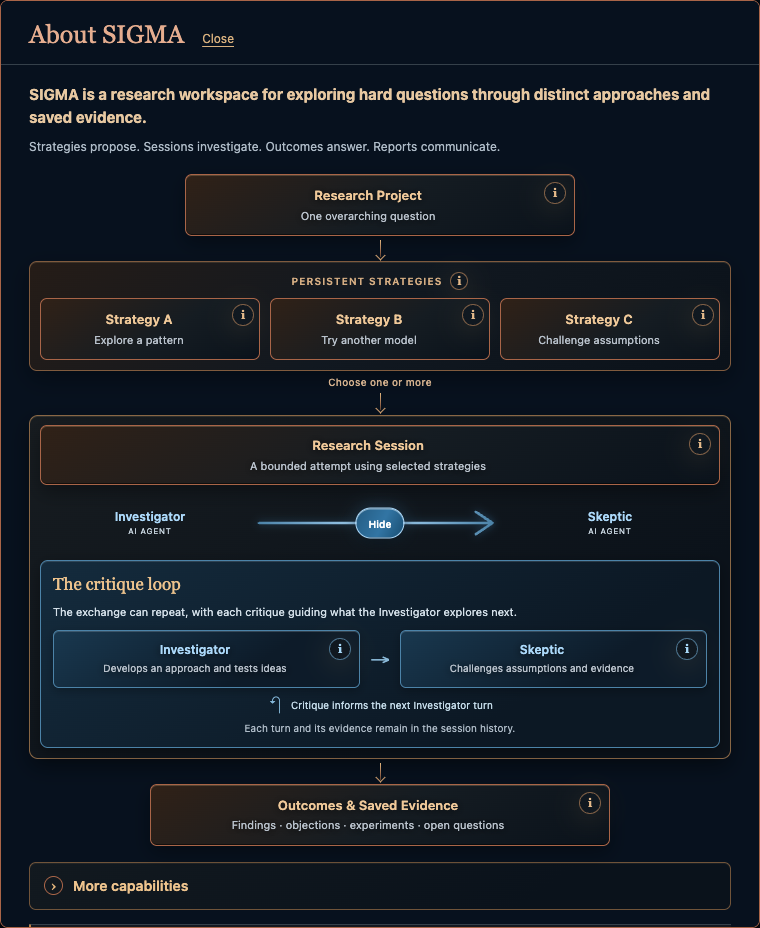
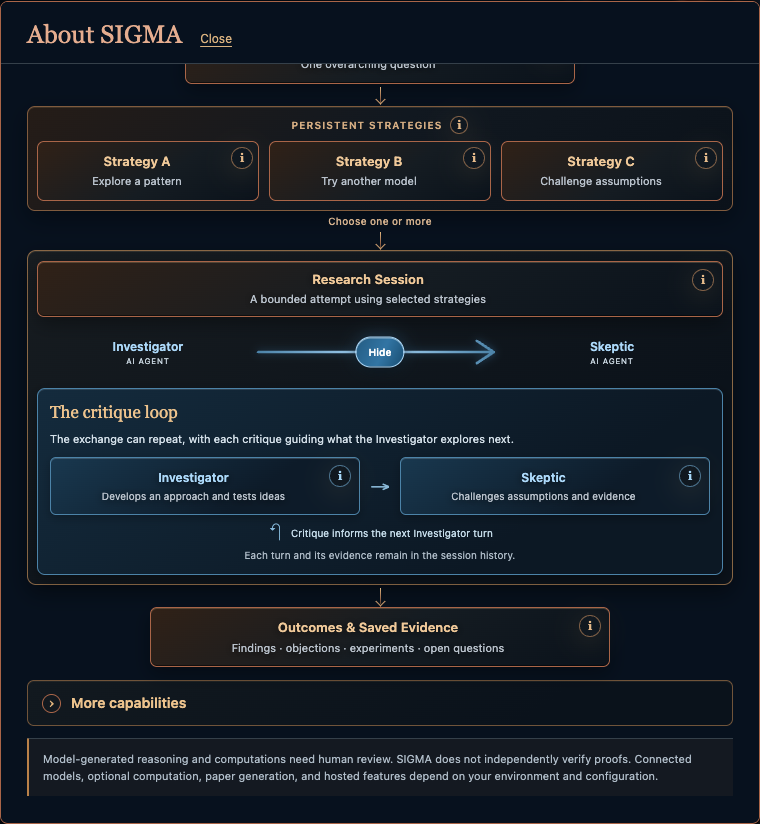
Trim About dialog height by five percent

diff --git a/frontend/src/project-entry.css b/frontend/src/project-entry.css
@@ -26,21 +26,22 @@
 .home-page .entry-dialog-actions button { padding: 12px 16px; font-size: 13px; border: 1px solid #dbb080; }
 .home-page .entry-dialog-actions .entry-cancel { background: transparent; border-color: transparent; color: #c2ced9; box-shadow: none; font-weight: 500; }
 .home-page .entry-dialog-actions .entry-cancel:hover { background: transparent; color: #f0c992; text-decoration: underline; }
-:is(.home-page, .workspace-page) .about-dialog { width: min(760px, calc(100vw - 32px)); max-height: calc(100dvh - 32px); overflow-y: auto; overscroll-behavior: contain; overflow-anchor: none; }
-:is(.home-page, .workspace-page) .about-dialog .entry-dialog-header { position: sticky; top: -28px; z-index: 1; background: #07111e; }
-.workspace-page .about-dialog { padding: 28px; border: 1px solid #9d784c; border-radius: 8px; background: #07111e; color: #dce7f0; color-scheme: dark; box-shadow: 0 24px 80px #000a; }
-.workspace-page .about-dialog .entry-dialog-header { display: flex; align-items: baseline; justify-content: flex-start; gap: 18px; margin: -28px -28px 18px; padding: 18px 28px 14px; border-bottom: 1px solid #35404a; }
+:is(.home-page, .workspace-page) .about-dialog { width: min(760px, calc(100vw - 32px)); max-height: calc(95dvh - 32px); overflow-y: auto; overscroll-behavior: contain; overflow-anchor: none; }
+:is(.home-page, .workspace-page) .about-dialog { padding: 26px; }
+:is(.home-page, .workspace-page) .about-dialog .entry-dialog-header { position: sticky; top: -26px; z-index: 1; margin: -26px -26px 16px; padding: 17px 26px 13px; background: #07111e; }
+.workspace-page .about-dialog { padding: 26px; border: 1px solid #9d784c; border-radius: 8px; background: #07111e; color: #dce7f0; color-scheme: dark; box-shadow: 0 24px 80px #000a; }
+.workspace-page .about-dialog .entry-dialog-header { display: flex; align-items: baseline; justify-content: flex-start; gap: 18px; margin: -26px -26px 16px; padding: 17px 26px 13px; border-bottom: 1px solid #35404a; }
 .workspace-page .about-dialog h2 { margin: 0; color: #edc38d; font: 400 25px/1.25 Georgia, serif; }
 .workspace-page .about-dialog .entry-cancel { flex: 0 0 auto; padding: 2px 0; border: 0; background: transparent; box-shadow: none; color: #d9b17e; font: 12px/1.3 Inter, ui-sans-serif, system-ui, sans-serif; text-decoration: underline; text-underline-offset: 3px; }
 :is(.home-page, .workspace-page) .about-dialog-content { color: #c4ced8; font: 13px/1.6 Inter, ui-sans-serif, system-ui, sans-serif; overflow-anchor: none; }
-:is(.home-page, .workspace-page) .about-dialog-content .about-intro { margin: 0 0 8px; color: #e7c8a1; font-size: 15px; line-height: 1.55; }
-:is(.home-page, .workspace-page) .about-dialog-content .about-terms { margin: 0 0 17px; color: #aebbc7; font-size: 12px; }
+:is(.home-page, .workspace-page) .about-dialog-content .about-intro { margin: 0 0 7px; color: #e7c8a1; font-size: 15px; line-height: 1.55; }
+:is(.home-page, .workspace-page) .about-dialog-content .about-terms { margin: 0 0 14px; color: #aebbc7; font-size: 12px; }
 :is(.home-page, .workspace-page) .about-dialog-content > h3 { margin: 0 0 12px; padding-bottom: 8px; border-bottom: 1px solid #795d3d; color: #edc38d; font: 400 20px/1.3 Georgia, serif; }
 :is(.home-page, .workspace-page) .about-feature { margin: 0; padding: 11px 0; border-bottom: 1px solid #35404a; }
 :is(.home-page, .workspace-page) .about-feature h4 { margin: 0 0 4px; color: #e3b485; font: 600 13px/1.4 Inter, ui-sans-serif, system-ui, sans-serif; }
 :is(.home-page, .workspace-page) .about-feature p { margin: 0; color: #c4ced8; font: inherit; }
-:is(.home-page, .workspace-page) .about-disclosure { margin: 12px 0; border: 1px solid #70543a; border-radius: 7px; background: linear-gradient(145deg, #12191f, #0a121b 72%); box-shadow: inset 0 1px 0 #f5c88912; }
-:is(.home-page, .workspace-page) .about-disclosure > summary { display: flex; align-items: center; gap: 10px; min-height: 46px; padding: 11px 14px; color: #edc38d; cursor: pointer; list-style: none; font: 600 14px/1.4 Inter, ui-sans-serif, system-ui, sans-serif; }
+:is(.home-page, .workspace-page) .about-disclosure { margin: 11px 0; border: 1px solid #70543a; border-radius: 7px; background: linear-gradient(145deg, #12191f, #0a121b 72%); box-shadow: inset 0 1px 0 #f5c88912; }
+:is(.home-page, .workspace-page) .about-disclosure > summary { display: flex; align-items: center; gap: 10px; min-height: 44px; padding: 10px 14px; color: #edc38d; cursor: pointer; list-style: none; font: 600 14px/1.4 Inter, ui-sans-serif, system-ui, sans-serif; }
 :is(.home-page, .workspace-page) .about-disclosure > summary::-webkit-details-marker { display: none; }
 :is(.home-page, .workspace-page) .about-disclosure > summary::before { content: '›'; display: grid; place-items: center; width: 17px; height: 17px; border: 1px solid #a96548; border-radius: 50%; color: #e4b67d; font: 16px/1 Georgia, serif; transition: transform 140ms ease; }
 :is(.home-page, .workspace-page) .about-disclosure[open] > summary::before { transform: rotate(90deg); }
@@ -49,13 +50,13 @@
 :is(.home-page, .workspace-page) .about-disclosure-content { padding: 0 14px 14px; }
 :is(.home-page, .workspace-page) .about-disclosure-content > .about-terms { margin-bottom: 2px; }
 :is(.home-page, .workspace-page) .about-disclosure-content > .about-feature:first-child { border-top: 1px solid #35404a; }
-:is(.home-page, .workspace-page) .about-architecture { margin: 0 0 16px; }
+:is(.home-page, .workspace-page) .about-architecture { margin: 0 0 13px; }
 :is(.home-page, .workspace-page) .about-research-flow { display: grid; justify-items: center; width: 100%; min-width: 0; }
 :is(.home-page, .workspace-page) .about-flow-project, :is(.home-page, .workspace-page) .about-flow-evidence { display: flex; justify-content: center; width: 100%; min-width: 0; }
 :is(.home-page, .workspace-page) .about-info-region { position: relative; display: grid; justify-items: stretch; min-width: 0; width: 100%; }
 :is(.home-page, .workspace-page) .about-flow-project .about-info-region { max-width: 390px; }
 :is(.home-page, .workspace-page) .about-flow-evidence .about-info-region { max-width: 460px; }
-:is(.home-page, .workspace-page) .about-diagram-node { position: relative; display: flex; flex-direction: column; align-items: center; justify-content: center; gap: 3px; width: 100%; min-width: 0; min-height: 62px; padding: 11px 38px 11px 14px; border: 1px solid #a96548; border-radius: 7px; color: #f2d9bc; text-align: center; background: linear-gradient(145deg, #302117 0%, #151c22 52%, #0a121b 100%); box-shadow: inset 0 1px 0 #f6c98d38, inset 0 -1px 0 #0008, 0 7px 18px #0005; text-shadow: 0 1px 8px #000a; transition: border-color 140ms ease, box-shadow 140ms ease, filter 140ms ease, transform 140ms ease; }
+:is(.home-page, .workspace-page) .about-diagram-node { position: relative; display: flex; flex-direction: column; align-items: center; justify-content: center; gap: 3px; width: 100%; min-width: 0; min-height: 60px; padding: 9px 38px 9px 14px; border: 1px solid #a96548; border-radius: 7px; color: #f2d9bc; text-align: center; background: linear-gradient(145deg, #302117 0%, #151c22 52%, #0a121b 100%); box-shadow: inset 0 1px 0 #f6c98d38, inset 0 -1px 0 #0008, 0 7px 18px #0005; text-shadow: 0 1px 8px #000a; transition: border-color 140ms ease, box-shadow 140ms ease, filter 140ms ease, transform 140ms ease; }
 :is(.home-page, .workspace-page) .about-diagram-node-title { color: #f0c999; font: 600 13px/1.35 Inter, ui-sans-serif, system-ui, sans-serif; }
 :is(.home-page, .workspace-page) .about-diagram-node-subtitle { color: #b9c2cc; font: 11px/1.4 Inter, ui-sans-serif, system-ui, sans-serif; }
 :is(.home-page, .workspace-page) .about-info-region:hover > .about-diagram-node, :is(.home-page, .workspace-page) .about-strategy-card:hover .about-strategy-node, :is(.home-page, .workspace-page) .about-strategy-card:focus-within .about-strategy-node { border-color: #e0ad74; box-shadow: inset 0 1px 0 #ffe0ab70, 0 0 0 1px #c78b5740, 0 8px 20px #0008; filter: brightness(1.08); }
@@ -66,21 +67,21 @@
 :is(.home-page, .workspace-page) .about-diagram-help:hover, :is(.home-page, .workspace-page) .about-diagram-help:focus-visible { border-color: #ffe0ab; color: #fff2e9; outline: 2px solid #edbc77; outline-offset: 2px; }
 :is(.home-page, .workspace-page) .about-info-region .about-diagram-help:hover:not(:disabled), :is(.home-page, .workspace-page) .about-info-region .about-diagram-help:focus-visible { background: #101820; }
 :is(.home-page, .workspace-page) .about-diagram-node--blue .about-diagram-help:hover, :is(.home-page, .workspace-page) .about-diagram-node--blue .about-diagram-help:focus-visible { border-color: #acd9fa; color: #fff; outline-color: #75b7ef; }
-:is(.home-page, .workspace-page) .about-flow-connector, :is(.home-page, .workspace-page) .about-inner-connector { display: grid; justify-items: center; gap: 4px; padding: 4px 0; color: #d4b18d; text-align: center; font: 500 10px/1.4 Inter, ui-sans-serif, system-ui, sans-serif; letter-spacing: .025em; }
-:is(.home-page, .workspace-page) .about-flow-connector i, :is(.home-page, .workspace-page) .about-inner-connector i { position: relative; display: block; width: 12px; height: 17px; background: linear-gradient(180deg, #e1b77f, #926146 72%, #57402e) center / 1px 100% no-repeat; }
+:is(.home-page, .workspace-page) .about-flow-connector, :is(.home-page, .workspace-page) .about-inner-connector { display: grid; justify-items: center; gap: 4px; padding: 3px 0; color: #d4b18d; text-align: center; font: 500 10px/1.4 Inter, ui-sans-serif, system-ui, sans-serif; letter-spacing: .025em; }
+:is(.home-page, .workspace-page) .about-flow-connector i, :is(.home-page, .workspace-page) .about-inner-connector i { position: relative; display: block; width: 12px; height: 16px; background: linear-gradient(180deg, #e1b77f, #926146 72%, #57402e) center / 1px 100% no-repeat; }
 :is(.home-page, .workspace-page) .about-flow-connector i::after, :is(.home-page, .workspace-page) .about-inner-connector i::after { position: absolute; bottom: -1px; left: 3px; width: 6px; height: 6px; border-right: 1px solid #d4a372; border-bottom: 1px solid #d4a372; content: ''; transform: rotate(45deg); }
-:is(.home-page, .workspace-page) .about-strategy-group { width: 100%; min-width: 0; padding: 10px; border: 1px solid #805b3e; border-radius: 8px; background: linear-gradient(135deg, #251c17, #111820 48%, #0b121a); box-shadow: inset 0 1px 0 #f5c88920, 0 8px 22px #0005; }
-:is(.home-page, .workspace-page) .about-strategy-group-heading { display: flex; align-items: center; justify-content: center; gap: 8px; margin: 0 0 8px; color: #d6ae83; font: 600 10px/1.4 Inter, ui-sans-serif, system-ui, sans-serif; letter-spacing: .1em; text-transform: uppercase; }
+:is(.home-page, .workspace-page) .about-strategy-group { width: 100%; min-width: 0; padding: 9px; border: 1px solid #805b3e; border-radius: 8px; background: linear-gradient(135deg, #251c17, #111820 48%, #0b121a); box-shadow: inset 0 1px 0 #f5c88920, 0 8px 22px #0005; }
+:is(.home-page, .workspace-page) .about-strategy-group-heading { display: flex; align-items: center; justify-content: center; gap: 8px; margin: 0 0 7px; color: #d6ae83; font: 600 10px/1.4 Inter, ui-sans-serif, system-ui, sans-serif; letter-spacing: .1em; text-transform: uppercase; }
 :is(.home-page, .workspace-page) .about-strategy-group-heading .about-diagram-help { position: static; flex: none; width: 18px; height: 18px; }
 :is(.home-page, .workspace-page) .about-strategy-cards { display: grid; grid-template-columns: repeat(3, minmax(0, 1fr)); gap: 10px; }
 :is(.home-page, .workspace-page) .about-strategy-card { position: relative; min-width: 0; }
-:is(.home-page, .workspace-page) .about-strategy-node { display: flex; flex-direction: column; align-items: center; justify-content: center; gap: 3px; width: 100%; min-height: 62px; padding: 10px 30px 10px 8px; border: 1px solid #a96548; border-radius: 7px; color: #f2d9bc; background: linear-gradient(145deg, #302117, #151c22 58%, #0a121b); transition: border-color 140ms ease, box-shadow 140ms ease, filter 140ms ease; }
+:is(.home-page, .workspace-page) .about-strategy-node { display: flex; flex-direction: column; align-items: center; justify-content: center; gap: 3px; width: 100%; min-height: 60px; padding: 8px 30px 8px 8px; border: 1px solid #a96548; border-radius: 7px; color: #f2d9bc; background: linear-gradient(145deg, #302117, #151c22 58%, #0a121b); transition: border-color 140ms ease, box-shadow 140ms ease, filter 140ms ease; }
 :is(.home-page, .workspace-page) .about-session-toggle:focus-visible { outline: 2px solid #75b7ef; outline-offset: 3px; }
 :is(.home-page, .workspace-page) .about-strategy-card > .about-diagram-help { top: 6px; right: 6px; }
 :is(.home-page, .workspace-page) .about-session-chevron { position: absolute; right: 10px; top: 50%; color: #d4a372; transform: translateY(-50%); transition: transform 140ms ease; }
-:is(.home-page, .workspace-page) .about-session-frame { width: 100%; min-width: 0; padding: 10px; border: 1px solid #8a6846; border-radius: 9px; background: linear-gradient(150deg, #171c20, #0b121a 72%); box-shadow: inset 0 1px 0 #e3bd8c22, 0 8px 20px #0006; }
+:is(.home-page, .workspace-page) .about-session-frame { width: 100%; min-width: 0; padding: 9px; border: 1px solid #8a6846; border-radius: 9px; background: linear-gradient(150deg, #171c20, #0b121a 72%); box-shadow: inset 0 1px 0 #e3bd8c22, 0 8px 20px #0006; }
 :is(.home-page, .workspace-page) .about-session-heading .about-diagram-node { min-height: 54px; }
-:is(.home-page, .workspace-page) .about-agent-cycle-preview { position: relative; display: grid; grid-template-columns: minmax(84px, 1fr) minmax(96px, 1.25fr) minmax(84px, 1fr); align-items: center; gap: 5px; min-height: 58px; margin-top: 9px; padding: 7px 10px; }
+:is(.home-page, .workspace-page) .about-agent-cycle-preview { position: relative; display: grid; grid-template-columns: minmax(84px, 1fr) minmax(96px, 1.25fr) minmax(84px, 1fr); align-items: center; gap: 5px; min-height: 56px; margin-top: 8px; padding: 6px 10px; }
 :is(.home-page, .workspace-page) .about-agent-role { color: #acd9fa; text-align: center; font: 600 12px/1.35 Inter, ui-sans-serif, system-ui, sans-serif; }
 :is(.home-page, .workspace-page) .about-agent-role small { display: block; margin-top: 2px; color: #c8d5df; font: 8px/1.2 Inter, ui-sans-serif, system-ui, sans-serif; letter-spacing: .08em; text-transform: uppercase; }
 :is(.home-page, .workspace-page) .about-agent-review-arrow { width: 100%; height: 32px; overflow: visible; filter: drop-shadow(0 0 4px #4b98cf70); }
@@ -100,13 +101,14 @@
 :is(.home-page, .workspace-page) .about-agent-feedback { display: flex; align-items: center; justify-content: center; gap: 7px; margin: 9px 0 0; color: #c5dcea; font: 10px/1.4 Inter, ui-sans-serif, system-ui, sans-serif; }
 :is(.home-page, .workspace-page) .about-agent-feedback span { color: #85b8da; font: 17px/1 Georgia, serif; }
 :is(.home-page, .workspace-page) .about-session-record { margin: 7px 0 0; color: #aebbc7; text-align: center; font: 10px/1.4 Inter, ui-sans-serif, system-ui, sans-serif; }
-:is(.home-page, .workspace-page) .about-boundary { margin: 14px 0 0; padding-top: 12px; border-top: 1px solid #35404a; color: #aebbc7; font: 11px/1.55 Inter, ui-sans-serif, system-ui, sans-serif; }
+:is(.home-page, .workspace-page) .about-boundary { margin: 12px 0 0; padding-top: 11px; border-top: 1px solid #35404a; color: #aebbc7; font: 11px/1.55 Inter, ui-sans-serif, system-ui, sans-serif; }
 :is(.home-page, .workspace-page) .about-diagram-tooltip { position: fixed; z-index: 4; width: min(360px, calc(100vw - 62px)); max-height: min(240px, calc(100dvh - 32px)); overflow: auto; margin: 0; padding: 10px 12px; border: 1px solid #b47a52; border-radius: 7px; color: #f1e3d3; background: linear-gradient(145deg, #302117, #101821 72%); box-shadow: inset 0 1px 0 #ffe0ab58, 0 8px 24px #000b, 0 0 15px #b8643c24; font: 11px/1.55 Inter, ui-sans-serif, system-ui, sans-serif; pointer-events: auto; animation: about-tip-enter 100ms ease-out both; }
 :is(.home-page, .workspace-page) .about-diagram-tooltip[data-tone="blue"] { border-color: #75b7ef; color: #e3edf5; background: linear-gradient(145deg, #19384f, #09131e 72%); box-shadow: inset 0 1px 0 #e4f5ff48, 0 8px 24px #000b, 0 0 16px #4b98cf30; }
 @keyframes about-tip-enter { from { opacity: .6; transform: translateY(-2px); } to { opacity: 1; transform: translateY(0); } }
 @media (max-width: 560px) {
-  :is(.home-page, .workspace-page) .about-dialog { width: calc(100vw - 24px); padding: 16px; }
-  :is(.home-page, .workspace-page) .about-dialog .entry-dialog-header { margin: -16px -16px 14px; padding: 14px 16px 11px; }
+  :is(.home-page, .workspace-page) .about-dialog { width: calc(100vw - 24px); max-height: calc(95dvh - 24px); padding: 15px; }
+  :is(.home-page, .workspace-page) .about-dialog .entry-dialog-header { margin: -15px -15px 13px; padding: 13px 15px 10px; }
+  :is(.home-page, .workspace-page) .about-dialog .entry-dialog-header { top: -15px; }
   :is(.home-page, .workspace-page) .about-dialog-content { font-size: 12px; }
   :is(.home-page, .workspace-page) .about-disclosure-content { padding: 0 10px 11px; }
   :is(.home-page, .workspace-page) .about-strategy-cards { grid-template-columns: minmax(0, 1fr); gap: 7px; }
@@ -128,6 +130,6 @@
   .home-page .project-entry-dialog { padding: 22px; }
   .home-page .project-entry-dialog .entry-dialog-header { margin: -22px -22px 16px; padding: 16px 22px 12px; }
   :is(.home-page, .workspace-page) .about-dialog .entry-dialog-header { top: -22px; }
-  .workspace-page .about-dialog { padding: 22px; }
-  .workspace-page .about-dialog .entry-dialog-header { margin: -22px -22px 16px; padding: 16px 22px 12px; }
+  .workspace-page .about-dialog { padding: 21px; }
+  .workspace-page .about-dialog .entry-dialog-header { top: -21px; margin: -21px -21px 15px; padding: 15px 21px 11px; }
 }

diff --git a/docs/STATUS.md b/docs/STATUS.md
@@ -206,6 +206,16 @@ calls or cloud changes were made.
 Before/after Chrome captures, with a brief simplification summary, are in
 [About polish screenshots](evaluations/about-polish/README.md).
 
+### About dialog height follow-up
+
+Reduced vertical spacing and the viewport height cap while keeping the content
+and interactions intact. Real Chrome measured the closed dialog at 777.6px at
+1440×900, down from 816.6px (5.5%); at 390×844 it measured 777.8px. The focused
+`browser_checks/about.py` acceptance passed at 1440px, 390px and 320px from both
+Home and Project, including tooltip, expanded content, keyboard/touch, scrolling,
+focus restoration, and Project hit-area checks. Updated screenshots are in the
+About polish capture directory. No provider calls or cloud changes were made.
+
 ## Outcome presentation and Project Settings (2026-10-24)
 
 Added project-scoped `show_advanced_outcome_details`, defaulting off. Simple mode

diff --git a/docs/evaluations/about-polish/README.md b/docs/evaluations/about-polish/README.md
@@ -4,6 +4,8 @@ The **Before** captures show the current `main` baseline at `617570b`. The **Aft
 
 The architecture flow is now visible at a glance, with one concise expandable session loop and fewer repeated explanations. The dialog has more room at desktop widths. Home’s signed-out access notice is narrower and aligned to the same top and left inset; its controls sit below it on mobile to prevent overlap. About/Admin now sit to the left of the account pills, and the Project header uses an `About` pill in the lower row beneath Difficulty.
 
+A follow-up trims the About dialog's vertical spacing and viewport cap. In real Chrome at 1440×900, its closed height is 771.6px, down from 816.6px (5.5%). At 390×844, the dialog is about 777.8px tall, with the remaining content reachable by scrolling.
+
 ## About dialog
 
 | Before | After |
